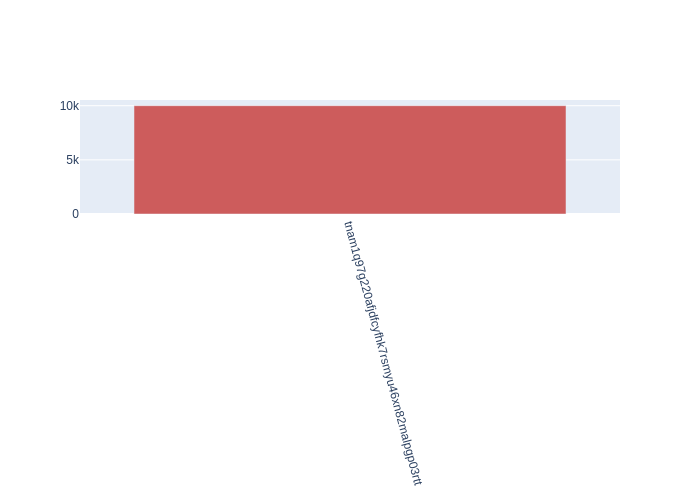
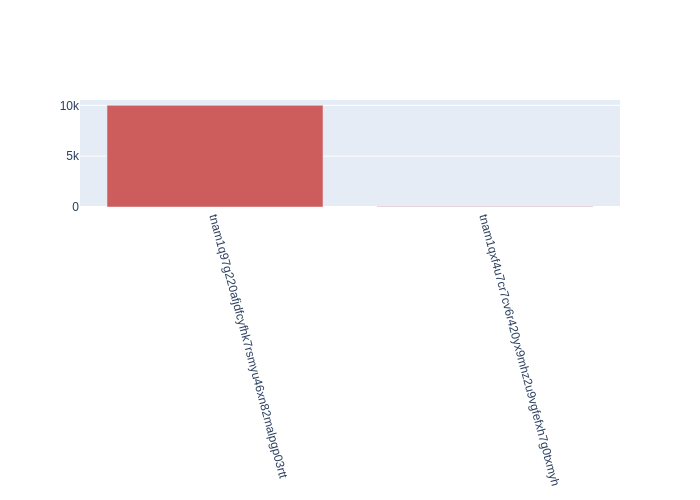
[skip ci] rebuild genesis readme

diff --git a/genesis/README.md b/genesis/README.md
@@ -11,6 +11,14 @@ Lorem ipsum dolor sit amet, consectetur adipiscing elit. Nulla mauris magna, bla
 ## Validators
 
 
+- address: `tnam1qxf4u7cr7cv6r420yx9mhz2u9vgfefxh7g0txmyh`
+    - alias: `Unknown alias`
+    - commission: `5.0%`
+    - max commission rate change: `1.0%`
+    - total voting power: `50.0`
+    - email: `admin`
+    - website: `https://validatorvn.com`
+
 - address: `tnam1q97g220afjdfcyfhk7rsmyu46xn82malpgp03rtt`
     - alias: `Unknown alias`
     - commission: `5.0%`
